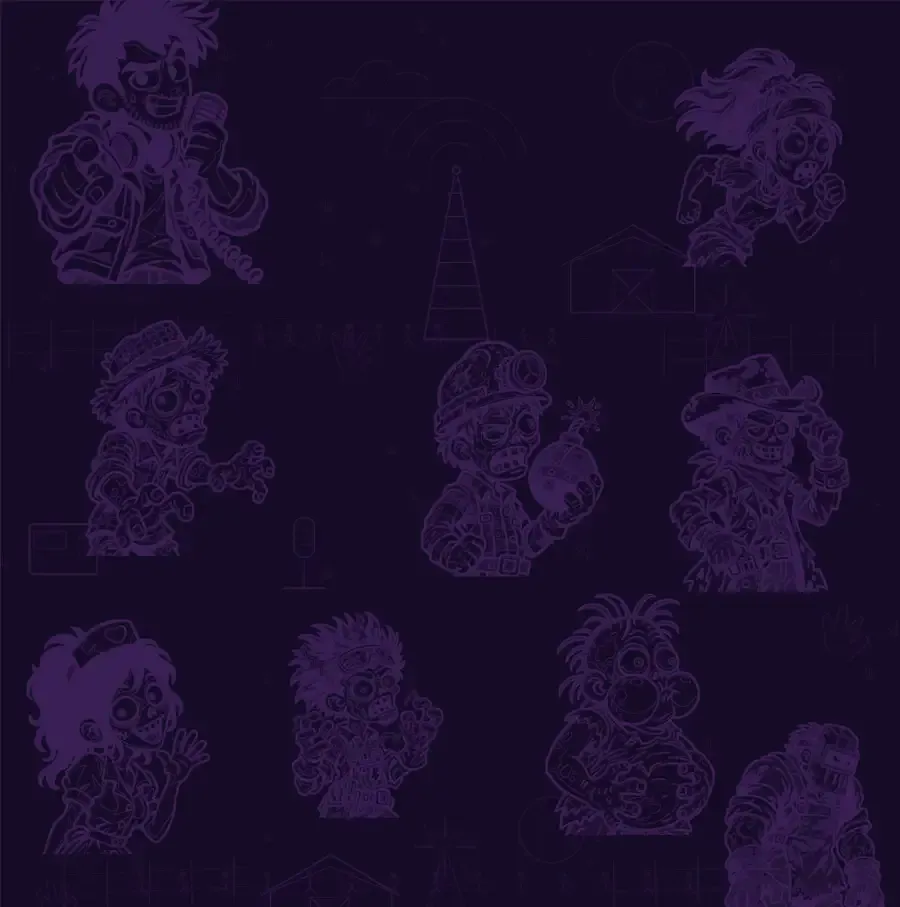
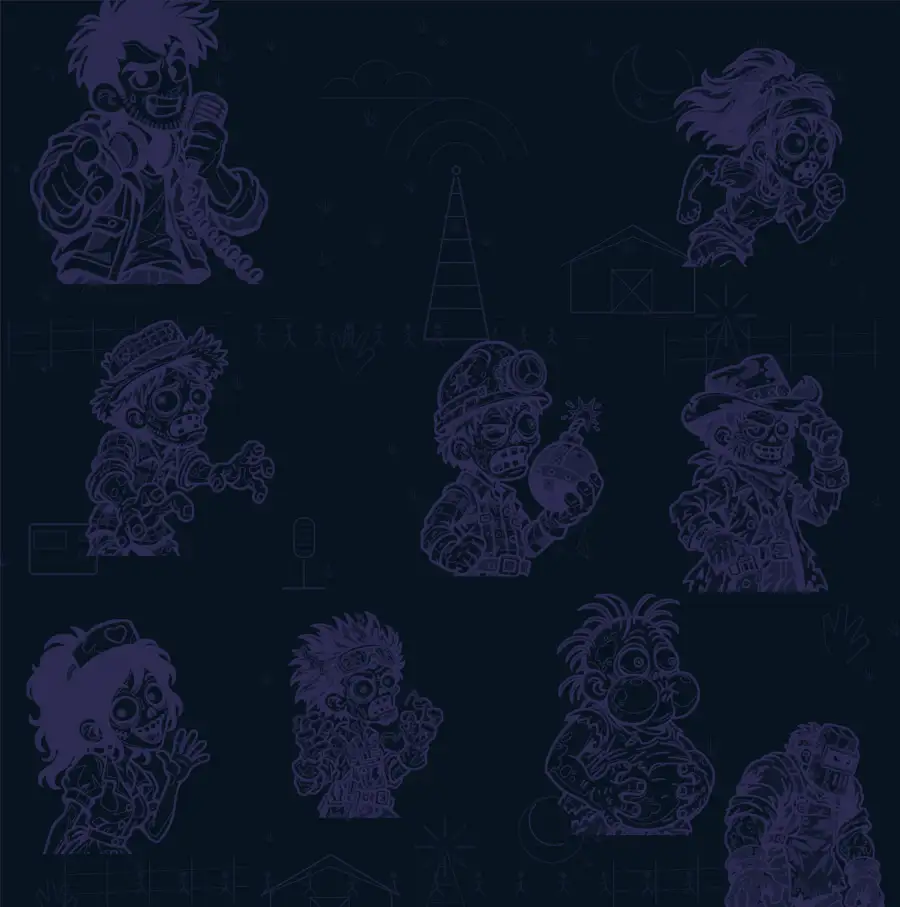
1.20

Changed region(s): [[0.6222, 0.8953, 0.6533, 0.9261]]

diff --git a/ar/index.html b/ar/index.html
@@ -6,7 +6,7 @@
   <title>زوم دروب — أمسكهم. اقذفهم. اصمد حتى الصباح.</title>
   <meta name="description" content="زوم دروب لعبة جوال من استوديو قمر بت. أمسك الزومبي بإصبعك، اقذفهم، أسقطهم، واحمِ بيتك حتى الصباح. قريباً على Google Play و App Store.">
   <meta name="theme-color" content="#081320">
-  <meta name="version" content="1.18">
+  <meta name="version" content="1.20">
   <link rel="canonical" href="https://zomdrop.com/ar/">
   <link rel="alternate" hreflang="en" href="https://zomdrop.com/">
   <link rel="alternate" hreflang="ar" href="https://zomdrop.com/ar/">
@@ -72,7 +72,7 @@
   <div class="wrap wide">
 
     <!-- ===== 2. Adam ===== -->
-    <section id="story" class="block art art-gold">
+    <section id="story" class="block art art-story">
       <div class="wallhead wall-farm">
         <picture><source media="(max-width: 700px)" srcset="../img/wall/farm-tall.webp" width="800" height="1422"><img src="../img/wall/farm-wide.webp" alt="" width="1600" height="800" loading="lazy" decoding="async"></picture>
         <div class="wh-txt"><p class="label">مذيعك</p><h2 class="title">راديو آدم، 99.9 FM</h2><p class="sub">البرنامج الوحيد الذي ما زال على الهواء.</p></div>
@@ -80,15 +80,27 @@
       <article class="adam reveal">
         <div class="pic"><img src="../img/cards/adam.webp" alt="آدم يتكلم في ميكروفون الراديو ويشير بإصبعه نحوك" width="640" height="800"></div>
         <div class="txt">
-          <h3>آدم</h3><p class="role">مذيع منتصف الليل</p>
-          <p>آدم يقدّم وحده برنامج منتصف الليل &quot;راديو آدم، 99.9 FM&quot; وهو متحصّن داخل البيت الذي يدافع عنه. ساخر ومسرحي على الهواء، جبان حين يقترب الزومبي، وفخور بك في سرّه: أنت &quot;الإصبع العظيم&quot;.</p>
+          <h3>آدم</h3><p class="role">وريث المزرعة صاحب الراديو</p>
+          <p>آدم ورث للتو مزرعة جده... وراديو جده القديم. متحصّن داخل بيت المزرعة، يلعب دور مذيع &quot;راديو آدم، 99.9 FM&quot; (والرقم تخمين!) ويرافقك كل ليلة. ساخر على الهواء، جبان حين يقترب الزومبي، وفخور بك في سرّه: أنت &quot;الإصبع العظيم&quot;.</p>
           <div class="quotes">
-            <blockquote>هل هذا يعمل؟ ألو؟ آه، مستمع جديد! أهلاً بك في راديو آدم.</blockquote>
+            <blockquote>ألو؟ هل هذا يعمل؟ معك آدم. ورثت للتو مزرعة جدي... وراديو جدي القديم.</blockquote>
             <blockquote>لا تقلق. الزومبي لا يكتبون تقييمات سيئة.</blockquote>
             <blockquote>راديو آدم يحييك يا إصبع. نفس الموعد غداً؟</blockquote>
           </div>
         </div>
       </article>
+      <div class="survivors reveal">
+        <div class="sv-txt">
+          <p class="label">على موجات الراديو</p>
+          <h3>ليس وحده</h3>
+          <p>آدم ليس وحده. ليلة بعد ليلة، يلتقط راديو جده القديم أصوات ناجين آخرين، وكلهم يقولون الشيء نفسه: الهجوم لا يتوقف. وفي مكان ما في البلدة سجن قديم بجدران سميكة وباب واحد. إذا صمد بيت المزرعة بما يكفي، فهناك وجهة آدم القادمة.</p>
+          <blockquote>عاد الصوت! هناك ناجون آخرون في الخارج. سألوني إن كنت في أمان. قلت لهم: عرّف لي الأمان.</blockquote>
+        </div>
+        <div class="camps">
+          <div class="camp camp-farm"><span class="cn">الحملة 1</span><h4>مزرعة ضوء القمر</h4><p>احمِ بيت مزرعة الجد بينما يبحث آدم في موجات الراديو عن ناجين آخرين.</p></div>
+          <div class="camp camp-block"><span class="cn">الحملة 2</span><h4>المكعب الخرساني</h4><p>كلام الناجين يقود آدم إلى سجن قديم. جدران أسمك، والزومبي هم أنفسهم.</p></div>
+        </div>
+      </div>
     </section>
 
     <!-- ===== 2. Zombies ===== -->
@@ -202,7 +214,7 @@
         <details class="t" data-g="tricks"><summary><img src="../img/tools/horn.png" alt="" width="128" height="128" loading="lazy"><b>بوق المشجعين</b></summary><div class="td"><p>يدفع الزومبي بعيدًا عن المنزل.</p></div></details>
         <details class="t" data-g="tricks"><summary><img src="../img/tools/powergrab.png" alt="" width="128" height="128" loading="lazy"><b>الإمساك الخارق</b></summary><div class="td"><p>يمسك الزومبي الثقيل، وعدة زومبي معًا بلمسة واحدة.</p></div></details>
       </div>
-      <div class="art art-purple lockedzone">
+      <div class="art art-rewards lockedzone">
       <h3 class="subtitle">جوائز سرّية</h3>
       <p class="sub lockednote">ست أدوات أخرى بانتظارك. أنهِ كل ليالي مزرعة ضوء القمر والمكعب الخرساني على الصعب، فتُفتح لك في المتجر مجاناً.</p>
       <div class="grid lockedgrid">
@@ -251,7 +263,7 @@
       </p>
       <p><a href="../privacy.html">سياسة الخصوصية</a> <a href="../credits.html">الشكر والتراخيص</a> <a href="mailto:support@zomdrop.com" dir="ltr">support@zomdrop.com</a> <a href="https://qamarbit.com">Qamar Bit</a> <a href="../" lang="en" hreflang="en">English</a></p>
       <p>&copy; 2026 Qamar Bit. جميع الحقوق محفوظة.</p>
-      <p class="ver">إصدار الموقع 1.18</p>
+      <p class="ver">إصدار الموقع 1.20</p>
     </footer>
   </div>
 

diff --git a/index.html b/index.html
@@ -6,7 +6,7 @@
   <title>ZomDrop — Grab them. Fling them. Survive until morning.</title>
   <meta name="description" content="ZomDrop is a mobile game by Qamar Bit. Grab zombies with your finger, fling them, drop them, and protect your house until morning. Coming soon on Google Play and the App Store.">
   <meta name="theme-color" content="#081320">
-  <meta name="version" content="1.18">
+  <meta name="version" content="1.20">
   <link rel="canonical" href="https://zomdrop.com/">
   <link rel="alternate" hreflang="en" href="https://zomdrop.com/">
   <link rel="alternate" hreflang="ar" href="https://zomdrop.com/ar/">
@@ -72,7 +72,7 @@
   <div class="wrap wide">
 
     <!-- ===== 2. Adam ===== -->
-    <section id="story" class="block art art-gold">
+    <section id="story" class="block art art-story">
       <div class="wallhead wall-farm">
         <picture><source media="(max-width: 700px)" srcset="img/wall/farm-tall.webp" width="800" height="1422"><img src="img/wall/farm-wide.webp" alt="" width="1600" height="800" loading="lazy" decoding="async"></picture>
         <div class="wh-txt"><p class="label">Your host</p><h2 class="title">Radio Adam, 99.9 FM</h2><p class="sub">The only show still on air.</p></div>
@@ -80,15 +80,27 @@
       <article class="adam reveal">
         <div class="pic"><img src="img/cards/adam.webp" alt="Adam talking into his radio microphone and pointing at you" width="640" height="800"></div>
         <div class="txt">
-          <h3>Adam</h3><p class="role">The midnight radio host</p>
-          <p>Adam runs a one-man midnight show, Radio Adam, 99.9 FM, barricaded inside the house he defends. Sarcastic and theatrical on air, a coward when the zombies get close, and secretly proud of you: the great finger.</p>
+          <h3>Adam</h3><p class="role">The farm heir with a radio</p>
+          <p>Adam just inherited his grandpa's farm, and grandpa's old radio. Barricaded inside the farmhouse, he plays host of &quot;Radio Adam, 99.9 FM&quot; (the 99.9 is a guess) and talks you through every night. Sarcastic on air, a coward when the zombies get close, and secretly proud of you: the great finger.</p>
           <div class="quotes">
-            <blockquote>Is this thing on? Hello? Oh, a new listener! Welcome to Radio Adam.</blockquote>
+            <blockquote>Hello? Is this thing on? It's Adam. I just inherited Grandpa's farm... and Grandpa's old radio.</blockquote>
             <blockquote>Don't worry. Zombies don't leave bad reviews.</blockquote>
             <blockquote>Radio Adam salutes you, finger. Same time tomorrow?</blockquote>
           </div>
         </div>
       </article>
+      <div class="survivors reveal">
+        <div class="sv-txt">
+          <p class="label">On the airwaves</p>
+          <h3>Not alone</h3>
+          <p>Adam isn't alone out there. Night after night, Grandpa's old radio picks up other survivors, and they all say the same thing: the attacks never stop. Somewhere in town there's an old prison with thick walls and one door. If the farmhouse can hold out long enough, that's where Adam is heading.</p>
+          <blockquote>The voice came back! There are other survivors out there. They asked if I'm safe. I said: define safe.</blockquote>
+        </div>
+        <div class="camps">
+          <div class="camp camp-farm"><span class="cn">Campaign 1</span><h4>Moonlight Farm</h4><p>Defend Grandpa's farmhouse while Adam searches the airwaves for other survivors.</p></div>
+          <div class="camp camp-block"><span class="cn">Campaign 2</span><h4>The Concrete Block</h4><p>The survivors' tip leads Adam to an old prison. Thicker walls. Same zombies.</p></div>
+        </div>
+      </div>
     </section>
 
     <!-- ===== 2. Zombies ===== -->
@@ -202,7 +214,7 @@
         <details class="t" data-g="tricks"><summary><img src="img/tools/horn.png" alt="" width="128" height="128" loading="lazy"><b>Fan horn</b></summary><div class="td"><p>Blasts zombies away from the house.</p></div></details>
         <details class="t" data-g="tricks"><summary><img src="img/tools/powergrab.png" alt="" width="128" height="128" loading="lazy"><b>Power grab</b></summary><div class="td"><p>Grabs heavy zombies, and several at once with one touch.</p></div></details>
       </div>
-      <div class="art art-purple lockedzone">
+      <div class="art art-rewards lockedzone">
       <h3 class="subtitle">Secret rewards</h3>
       <p class="sub lockednote">Six more are waiting. Clear every night of Moonlight Farm and The Concrete Block on hard, and they open in the shop for free.</p>
       <div class="grid lockedgrid">
@@ -251,7 +263,7 @@
       </p>
       <p><a href="privacy.html">Privacy Policy</a> <a href="credits.html">Credits</a> <a href="mailto:support@zomdrop.com" dir="ltr">support@zomdrop.com</a> <a href="https://qamarbit.com">Qamar Bit</a> <a href="ar/" lang="ar" hreflang="ar">العربية</a></p>
       <p>&copy; 2026 Qamar Bit. All rights reserved.</p>
-      <p class="ver">Site version 1.18</p>
+      <p class="ver">Site version 1.20</p>
     </footer>
   </div>
 

diff --git a/style.css b/style.css
@@ -190,7 +190,7 @@ a:hover, a:focus { text-decoration: underline; }
 /* Adam: wide card, picture beside the text */
 .adam {
   display: grid; grid-template-columns: minmax(0, 360px) 1fr; text-align: start;
-  background: var(--card); border: 1px solid #6b5420; border-radius: 18px; overflow: hidden;
+  background: var(--card); border: 1px solid #2c4580; border-radius: 18px; overflow: hidden;
 }
 .adam .pic { background: #8a611a; }
 .adam .pic img { height: 100%; }
@@ -205,6 +205,29 @@ a:hover, a:focus { text-decoration: underline; }
 }
 .quotes p { margin: 0; }
 .quotes p[lang="ar"] { color: #c6cfe2; }
+
+/* 2026-11-22: survivors on the radio + the two campaigns, under Adam's card (same blue frame as the farm wall) */
+.survivors {
+  display: grid; grid-template-columns: 1.25fr 1fr; gap: 18px; margin-top: 18px; text-align: start;
+  padding: 22px 24px; background: #0c1a33e6; border: 1px solid #2c4580; border-radius: 18px;
+}
+.survivors .label { margin: 0; }
+.survivors h3 { margin: 4px 0 0; font-family: "Luckiest Guy", "Lalezar", system-ui, sans-serif; font-weight: 400; font-size: 30px; line-height: 1.1; color: var(--gold); }
+.survivors .sv-txt > p:not(.label) { margin: 10px 0 0; }
+.survivors blockquote {
+  margin: 14px 0 0; padding: 9px 14px; background: #0a1626; border-radius: 10px;
+  border-inline-start: 3px solid #7fa2ff; font-size: 15px; line-height: 1.5;
+}
+.camps { display: grid; gap: 12px; align-content: center; }
+.camp { padding: 14px 16px; border-radius: 14px; background: #0a1626; border: 1px solid var(--line); }
+.camp .cn { font-size: 12px; letter-spacing: 2px; text-transform: uppercase; color: var(--muted); }
+.camp h4 { margin: 2px 0 4px; font-family: "Luckiest Guy", "Lalezar", system-ui, sans-serif; font-weight: 400; font-size: 21px; letter-spacing: .5px; }
+.camp p { margin: 0; font-size: 15px; line-height: 1.5; color: #c6cfe2; }
+.camp-farm { border-inline-start: 4px solid #5f8cf0; }
+.camp-farm h4 { color: #a9c2ff; }
+.camp-block { border-inline-start: 4px solid #9a9fb0; }
+.camp-block h4 { color: #d5d9e4; }
+@media (max-width: 760px) { .survivors { grid-template-columns: 1fr; padding: 18px 16px; } .survivors h3 { font-size: 26px; } }
 
 /* tools (1.12): filter buttons + small tiles; a tapped tile opens across the whole row */
 .tools-hint { margin: -14px 0 16px; color: var(--muted); font-size: 14px; }
@@ -393,9 +416,8 @@ footer a:hover { color: var(--gold); }
   background-position: center top, center top;
   background-size: 100% 100%, 100% 100%, 760px auto;
 }
-.art-gold   { background-image: linear-gradient(to right, var(--bg) 0, #08132000 9%, #08132000 91%, var(--bg) 100%), linear-gradient(to bottom, var(--bg) 0, #08132000 110px, #08132000 calc(100% - 110px), var(--bg) 100%), url("img/art/gold.webp"); }
-.art-blue   { background-image: linear-gradient(to right, var(--bg) 0, #08132000 9%, #08132000 91%, var(--bg) 100%), linear-gradient(to bottom, var(--bg) 0, #08132000 110px, #08132000 calc(100% - 110px), var(--bg) 100%), url("img/art/blue.webp"); }
-.art-purple { background-image: linear-gradient(to right, var(--bg) 0, #08132000 9%, #08132000 91%, var(--bg) 100%), linear-gradient(to bottom, var(--bg) 0, #08132000 70px, #08132000 calc(100% - 70px), var(--bg) 100%), url("img/art/purple.webp"); }
+.art-story  { background-image: linear-gradient(to right, var(--bg) 0, #08132000 9%, #08132000 91%, var(--bg) 100%), linear-gradient(to bottom, var(--bg) 0, #08132000 110px, #08132000 calc(100% - 110px), var(--bg) 100%), url("img/art/story.webp"); }
+.art-rewards { background-image: linear-gradient(to right, var(--bg) 0, #08132000 9%, #08132000 91%, var(--bg) 100%), linear-gradient(to bottom, var(--bg) 0, #08132000 70px, #08132000 calc(100% - 70px), var(--bg) 100%), url("img/art/rewards.webp"); }
 .art-horde  { background-image: linear-gradient(to right, var(--bg) 0, #08132000 9%, #08132000 91%, var(--bg) 100%), linear-gradient(to bottom, var(--bg) 0, #08132000 110px, #08132000 calc(100% - 110px), var(--bg) 100%), url("img/art/horde.webp"); }
 .art-teal   { background-image: linear-gradient(to right, var(--bg) 0, #08132000 9%, #08132000 91%, var(--bg) 100%), linear-gradient(to bottom, var(--bg) 0, #08132000 110px, #08132000 calc(100% - 110px), var(--bg) 100%), url("img/art/teal.webp"); }
 /* 1.18: comic-wall picture band behind a section title. The middle is darkened so the title reads well. */
@@ -406,6 +428,9 @@ footer a:hover { color: var(--gold); }
   background: #0b1a4a; box-shadow: 0 10px 30px #0009;
 }
 .wall-horde { background: #2a1450; }
+/* 2026-11-22: the walls are a little calmer, so their blue and purple sit with the page navy instead of shouting */
+.wallhead img { filter: saturate(.78) brightness(.92); }
+.wallhead { border-color: #050b16; box-shadow: 0 10px 30px #0009, inset 0 0 0 1px #ffffff10; }
 .wallhead picture { position: absolute; inset: 0; z-index: -2; }
 .wallhead img { position: absolute; top: -9%; left: 0; width: 100%; height: 118%; object-fit: cover; }
 .wallhead::after {
